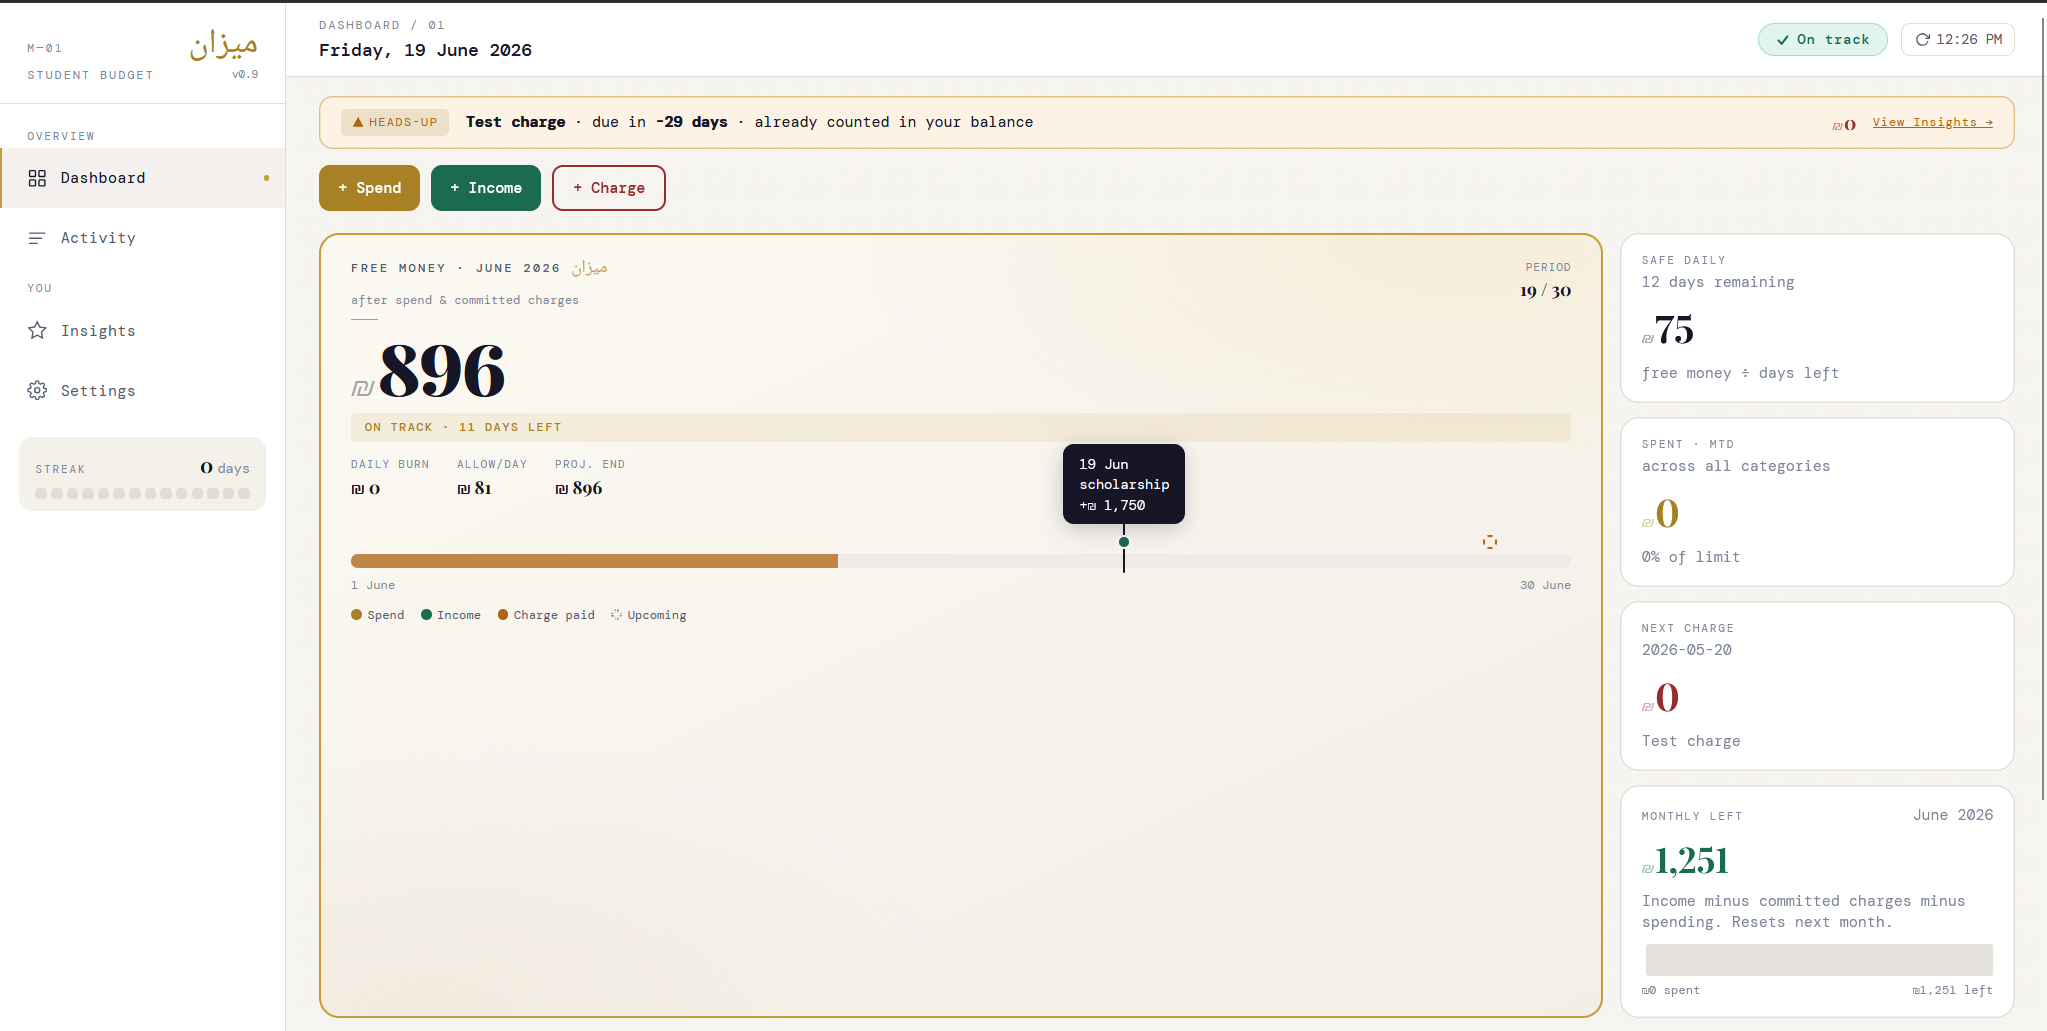
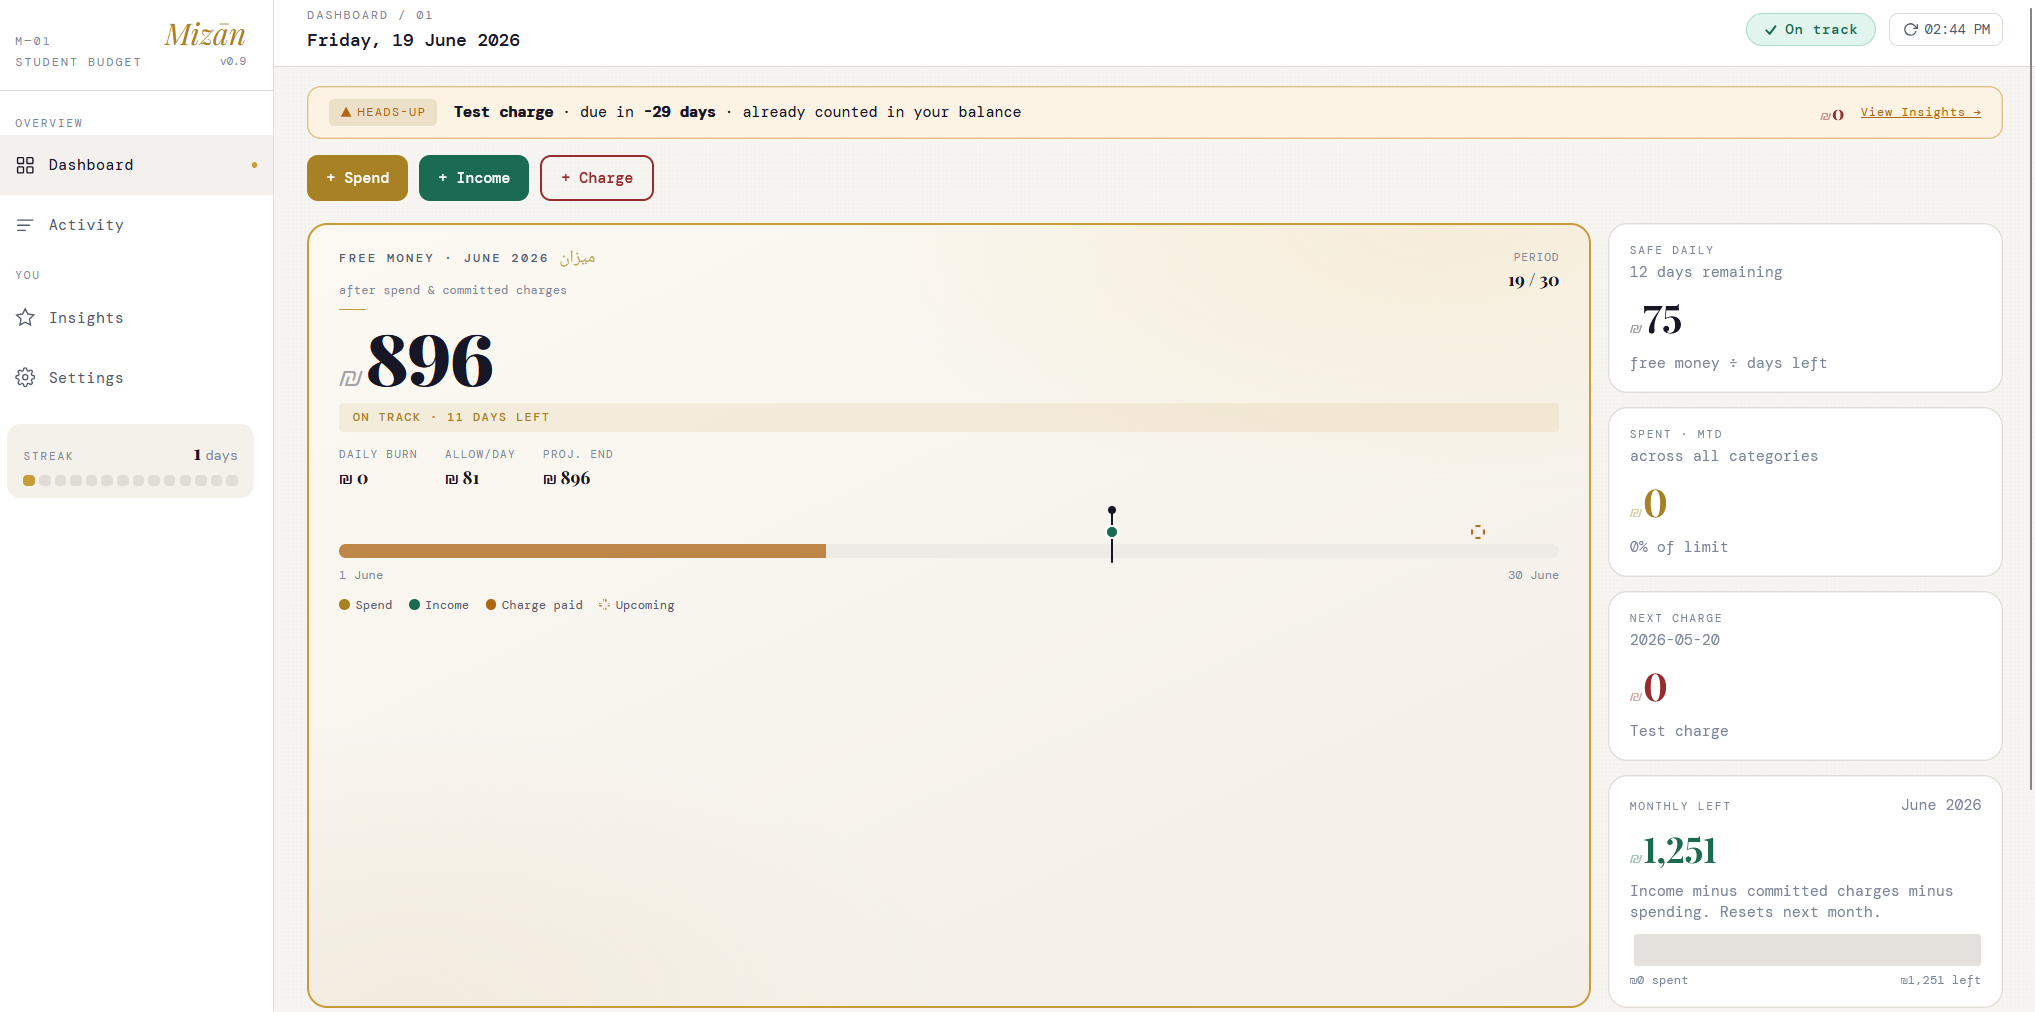
docs: update screenshot, personalise README problem statement

diff --git a/README.md b/README.md
@@ -10,7 +10,7 @@ Personal project — built as a HUJI CS student to solve a real budgeting proble
 
 Your bank balance is a lie. It shows ₪2,000 available while next week's rent, the phone bill, and a subscription are all still sitting in there uncounted. Nothing deducts future obligations until they actually clear — so students spend freely, then hit month-end in crisis.
 
-Mizān fixes this without requiring bank access or a complex setup.
+I kept running into this as a HUJI student, so I built Mizān — ميزان, Arabic for *"balance"* — to try and fix it for myself.
 
 ---
 
